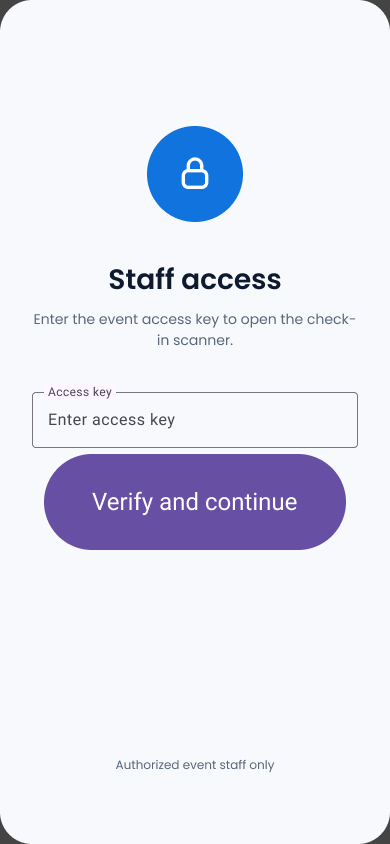
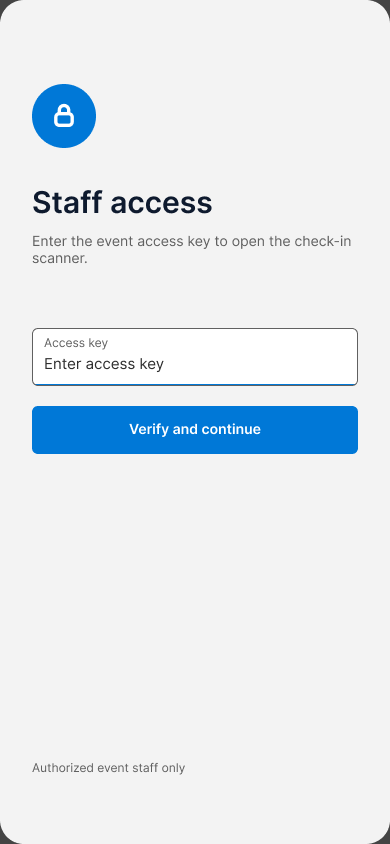
Adopt Microsoft Fluent-inspired visual language

diff --git a/app/src/main/java/anwar/mlsa/eventsregistration/MainActivity.kt b/app/src/main/java/anwar/mlsa/eventsregistration/MainActivity.kt
@@ -122,19 +122,25 @@ fun AccessKeyDialog(onAuthorized: (isMaster: Boolean, keyUsed: String) -> Unit) 
             modifier = Modifier
                 .fillMaxWidth()
                 .padding(16.dp),
-            shape = RoundedCornerShape(24.dp),
+            shape = RoundedCornerShape(12.dp),
             colors = CardDefaults.cardColors(containerColor = MaterialTheme.colorScheme.surface)
         ) {
             Column(
                 modifier = Modifier.padding(24.dp),
-                horizontalAlignment = Alignment.CenterHorizontally,
+                horizontalAlignment = Alignment.Start,
                 verticalArrangement = Arrangement.spacedBy(16.dp)
             ) {
                 Icon(
                     Icons.Default.VpnKey,
                     contentDescription = null,
-                    modifier = Modifier.size(48.dp),
-                    tint = MaterialTheme.colorScheme.primary
+                    modifier = Modifier
+                        .background(
+                            MaterialTheme.colorScheme.primary,
+                            RoundedCornerShape(12.dp)
+                        )
+                        .padding(10.dp)
+                        .size(24.dp),
+                    tint = MaterialTheme.colorScheme.onPrimary
                 )
                 
                 Text(
@@ -146,7 +152,7 @@ fun AccessKeyDialog(onAuthorized: (isMaster: Boolean, keyUsed: String) -> Unit) 
                 Text(
                     "Enter the event access key to open the check-in scanner.",
                     style = MaterialTheme.typography.bodyMedium,
-                    textAlign = TextAlign.Center,
+                    textAlign = TextAlign.Start,
                     color = MaterialTheme.colorScheme.onSurfaceVariant
                 )
 
@@ -189,7 +195,7 @@ fun AccessKeyDialog(onAuthorized: (isMaster: Boolean, keyUsed: String) -> Unit) 
                         }
                     },
                     modifier = Modifier.fillMaxWidth(),
-                    shape = RoundedCornerShape(12.dp)
+                    shape = RoundedCornerShape(6.dp)
                 )
 
                 Button(
@@ -234,7 +240,7 @@ fun AccessKeyDialog(onAuthorized: (isMaster: Boolean, keyUsed: String) -> Unit) 
                         }
                     },
                     modifier = Modifier.fillMaxWidth().height(50.dp),
-                    shape = RoundedCornerShape(12.dp),
+                    shape = RoundedCornerShape(6.dp),
                     enabled = !isLoading && key.isNotBlank()
                 ) {
                     if (isLoading) {
@@ -478,7 +484,8 @@ fun ScanningScreen(
                 .padding(24.dp)
                 .size(50.dp),
             containerColor = if (torchEnabled) Color(0xFFFFD700) else Color.White,
-            contentColor = if (torchEnabled) Color.Black else Color.Gray
+            contentColor = if (torchEnabled) Color.Black else Color.Gray,
+            shape = RoundedCornerShape(12.dp)
         ) {
             val icon = if (torchEnabled) Icons.Filled.FlashOn else Icons.Filled.FlashOff
             Icon(imageVector = icon, contentDescription = "Toggle Flash")
@@ -496,7 +503,7 @@ fun ScanningScreen(
                         is AttendanceState.AlreadyRegistered -> Color(0xFF2196F3).copy(alpha = 0.9f)
                         is AttendanceState.Error -> Color(0xFFF44336).copy(alpha = 0.9f)
                     },
-                    shape = RoundedCornerShape(30.dp)
+                    shape = RoundedCornerShape(6.dp)
                 )
                 .padding(horizontal = 24.dp, vertical = 10.dp)
         ) {
@@ -522,7 +529,8 @@ fun ScanningScreen(
                 .padding(16.dp),
             shape = RoundedCornerShape(16.dp),
             colors = CardDefaults.cardColors(containerColor = MaterialTheme.colorScheme.surface),
-            elevation = CardDefaults.cardElevation(defaultElevation = 8.dp)
+            elevation = CardDefaults.cardElevation(defaultElevation = 4.dp),
+            border = BorderStroke(1.dp, MaterialTheme.colorScheme.outline)
         ) {
             Column(
                 modifier = Modifier.padding(16.dp),
@@ -544,7 +552,7 @@ fun ScanningScreen(
                         placeholder = { Text("Registration ID") },
                         modifier = Modifier.weight(1f),
                         singleLine = true,
-                        shape = RoundedCornerShape(12.dp)
+                        shape = RoundedCornerShape(6.dp)
                     )
                     Button(
                         onClick = {
@@ -554,7 +562,7 @@ fun ScanningScreen(
                             }
                         },
                         enabled = uiState is AttendanceState.Idle,
-                        shape = RoundedCornerShape(12.dp),
+                        shape = RoundedCornerShape(6.dp),
                         modifier = Modifier.height(56.dp)
                     ) {
                         Icon(Icons.Default.CheckCircle, contentDescription = null)
@@ -694,7 +702,8 @@ fun ResultDialog(
     Dialog(onDismissRequest = onDismiss) {
         Card(
             colors = CardDefaults.cardColors(containerColor = backgroundColor),
-            shape = RoundedCornerShape(16.dp)
+            shape = RoundedCornerShape(12.dp),
+            border = BorderStroke(1.dp, MaterialTheme.colorScheme.outline)
         ) {
             Column(
                 modifier = Modifier

diff --git a/app/src/main/java/anwar/mlsa/eventsregistration/ui/SettingsScreen.kt b/app/src/main/java/anwar/mlsa/eventsregistration/ui/SettingsScreen.kt
@@ -3,7 +3,9 @@ package anwar.mlsa.eventsregistration.ui
 import android.content.Intent
 import android.net.Uri
 import androidx.compose.foundation.clickable
+import androidx.compose.foundation.BorderStroke
 import androidx.compose.foundation.layout.*
+import androidx.compose.foundation.shape.RoundedCornerShape
 import androidx.compose.foundation.rememberScrollState
 import androidx.compose.foundation.verticalScroll
 import androidx.compose.material.icons.Icons
@@ -62,7 +64,9 @@ fun SettingsScreen(
 
             Card(
                 modifier = Modifier.fillMaxWidth(),
-                colors = CardDefaults.cardColors(containerColor = MaterialTheme.colorScheme.surfaceVariant.copy(alpha = 0.5f))
+                shape = RoundedCornerShape(10.dp),
+                border = BorderStroke(1.dp, MaterialTheme.colorScheme.outline),
+                colors = CardDefaults.cardColors(containerColor = MaterialTheme.colorScheme.surface)
             ) {
                 Column(modifier = Modifier.padding(16.dp)) {
                     Text(
@@ -107,7 +111,9 @@ fun SettingsScreen(
 
             Card(
                 modifier = Modifier.fillMaxWidth(),
-                colors = CardDefaults.cardColors(containerColor = MaterialTheme.colorScheme.surfaceVariant.copy(alpha = 0.5f))
+                shape = RoundedCornerShape(10.dp),
+                border = BorderStroke(1.dp, MaterialTheme.colorScheme.outline),
+                colors = CardDefaults.cardColors(containerColor = MaterialTheme.colorScheme.surface)
             ) {
                 Row(
                     modifier = Modifier
@@ -123,7 +129,7 @@ fun SettingsScreen(
                             fontWeight = FontWeight.SemiBold
                         )
                         Text(
-                        text = "Vibrate after each check-in result",
+                            text = "Vibrate after each check-in result",
                             style = MaterialTheme.typography.bodySmall,
                             color = MaterialTheme.colorScheme.onSurfaceVariant
                         )
@@ -170,6 +176,7 @@ fun DarkModeOption(
         selected = selected,
         onClick = onClick,
         label = { Text(text) },
+        shape = RoundedCornerShape(6.dp),
         colors = FilterChipDefaults.filterChipColors(
             selectedContainerColor = MaterialTheme.colorScheme.primary,
             selectedLabelColor = MaterialTheme.colorScheme.onPrimary

diff --git a/app/src/main/java/anwar/mlsa/eventsregistration/ui/theme/Type.kt b/app/src/main/java/anwar/mlsa/eventsregistration/ui/theme/Type.kt
@@ -6,29 +6,56 @@ import androidx.compose.ui.text.font.FontFamily
 import androidx.compose.ui.text.font.FontWeight
 import androidx.compose.ui.unit.sp
 
-// Set of Material typography styles to start with
 val Typography = Typography(
+    headlineSmall = TextStyle(
+        fontFamily = FontFamily.SansSerif,
+        fontWeight = FontWeight.SemiBold,
+        fontSize = 24.sp,
+        lineHeight = 32.sp,
+        letterSpacing = 0.sp
+    ),
+    titleLarge = TextStyle(
+        fontFamily = FontFamily.SansSerif,
+        fontWeight = FontWeight.SemiBold,
+        fontSize = 22.sp,
+        lineHeight = 28.sp
+    ),
+    titleMedium = TextStyle(
+        fontFamily = FontFamily.SansSerif,
+        fontWeight = FontWeight.SemiBold,
+        fontSize = 16.sp,
+        lineHeight = 22.sp
+    ),
     bodyLarge = TextStyle(
-        fontFamily = FontFamily.Default,
+        fontFamily = FontFamily.SansSerif,
         fontWeight = FontWeight.Normal,
         fontSize = 16.sp,
         lineHeight = 24.sp,
-        letterSpacing = 0.5.sp
-    )
-    /* Other default text styles to override
-    titleLarge = TextStyle(
-        fontFamily = FontFamily.Default,
-        fontWeight = FontWeight.Normal,
-        fontSize = 22.sp,
-        lineHeight = 28.sp,
         letterSpacing = 0.sp
     ),
+    bodyMedium = TextStyle(
+        fontFamily = FontFamily.SansSerif,
+        fontWeight = FontWeight.Normal,
+        fontSize = 14.sp,
+        lineHeight = 20.sp
+    ),
+    bodySmall = TextStyle(
+        fontFamily = FontFamily.SansSerif,
+        fontWeight = FontWeight.Normal,
+        fontSize = 12.sp,
+        lineHeight = 16.sp
+    ),
+    labelLarge = TextStyle(
+        fontFamily = FontFamily.SansSerif,
+        fontWeight = FontWeight.SemiBold,
+        fontSize = 14.sp,
+        lineHeight = 20.sp
+    ),
     labelSmall = TextStyle(
-        fontFamily = FontFamily.Default,
-        fontWeight = FontWeight.Medium,
+        fontFamily = FontFamily.SansSerif,
+        fontWeight = FontWeight.SemiBold,
         fontSize = 11.sp,
         lineHeight = 16.sp,
-        letterSpacing = 0.5.sp
+        letterSpacing = 0.2.sp
     )
-    */
 )

diff --git a/app/src/main/java/anwar/mlsa/eventsregistration/ui/theme/Theme.kt b/app/src/main/java/anwar/mlsa/eventsregistration/ui/theme/Theme.kt
@@ -2,28 +2,47 @@ package anwar.mlsa.eventsregistration.ui.theme
 
 import androidx.compose.foundation.isSystemInDarkTheme
 import androidx.compose.material3.MaterialTheme
+import androidx.compose.material3.Shapes
 import androidx.compose.material3.darkColorScheme
 import androidx.compose.material3.lightColorScheme
 import androidx.compose.runtime.Composable
 import androidx.compose.ui.graphics.Color
+import androidx.compose.foundation.shape.RoundedCornerShape
+import androidx.compose.ui.unit.dp
 
 private val DarkColorScheme = darkColorScheme(
-    primary = BrandBlueDark,
-    secondary = SuccessGreen,
-    background = DarkBackground,
-    surface = Color(0xFF101D2D),
+    primary = FluentBlueDark,
+    secondary = FluentGreen,
+    error = Color(0xFFFF99A4),
+    background = FluentDarkBackground,
+    surface = FluentDarkSurface,
+    surfaceVariant = Color(0xFF333333),
     onBackground = Color(0xFFF2F6FC),
-    onSurface = Color(0xFFF2F6FC)
+    onSurface = Color(0xFFF2F6FC),
+    onSurfaceVariant = Color(0xFFC7C7C7),
+    outline = Color(0xFF666666)
 )
 
 private val LightColorScheme = lightColorScheme(
-    primary = BrandBlue,
-    secondary = SuccessGreen,
-    background = AppBackground,
-    surface = Color.White,
+    primary = FluentBlue,
+    secondary = FluentGreen,
+    error = FluentRed,
+    background = FluentBackground,
+    surface = FluentSurface,
+    surfaceVariant = Color(0xFFF8F8F8),
     onPrimary = Color.White,
-    onBackground = Ink,
-    onSurface = Ink
+    onBackground = FluentInk,
+    onSurface = FluentInk,
+    onSurfaceVariant = FluentSecondary,
+    outline = FluentStroke
+)
+
+private val FluentShapes = Shapes(
+    extraSmall = RoundedCornerShape(4.dp),
+    small = RoundedCornerShape(6.dp),
+    medium = RoundedCornerShape(8.dp),
+    large = RoundedCornerShape(12.dp),
+    extraLarge = RoundedCornerShape(16.dp)
 )
 
 @Composable
@@ -39,6 +58,7 @@ fun MLSAEgyptEventsRegistrationTheme(
     MaterialTheme(
         colorScheme = colorScheme,
         typography = Typography,
+        shapes = FluentShapes,
         content = content
     )
 }

diff --git a/app/src/main/java/anwar/mlsa/eventsregistration/ui/theme/Color.kt b/app/src/main/java/anwar/mlsa/eventsregistration/ui/theme/Color.kt
@@ -2,9 +2,14 @@ package anwar.mlsa.eventsregistration.ui.theme
 
 import androidx.compose.ui.graphics.Color
 
-val BrandBlue = Color(0xFF1174DE)
-val BrandBlueDark = Color(0xFF82C8FF)
-val SuccessGreen = Color(0xFF149161)
-val Ink = Color(0xFF0E1A2E)
-val AppBackground = Color(0xFFF7F9FC)
-val DarkBackground = Color(0xFF08121F)
+val FluentBlue = Color(0xFF0078D4)
+val FluentBlueDark = Color(0xFF60CDFF)
+val FluentGreen = Color(0xFF107C10)
+val FluentRed = Color(0xFFD13438)
+val FluentInk = Color(0xFF242424)
+val FluentSecondary = Color(0xFF616161)
+val FluentBackground = Color(0xFFF3F3F3)
+val FluentSurface = Color(0xFFFFFFFF)
+val FluentStroke = Color(0xFFE0E0E0)
+val FluentDarkBackground = Color(0xFF202020)
+val FluentDarkSurface = Color(0xFF2B2B2B)

diff --git a/README.md b/README.md
@@ -2,6 +2,8 @@
 
 A focused Android app for event staff to verify attendees at the door. It scans QR codes with CameraX and ML Kit, sends the registration ID to a configurable HTTPS attendance API, detects duplicate check-ins, and can optionally record successful IDs through Hedera Consensus Service.
 
+The interface uses a Microsoft Fluent-inspired visual language adapted for Android: restrained radii, neutral layered surfaces, accessible borders, system sans-serif typography, and the Microsoft blue accent.
+
 > This is an **organizer/staff check-in tool**. It is not an attendee event browser, ticket marketplace, account system, or registration portal.
 
 ## Screenshots
